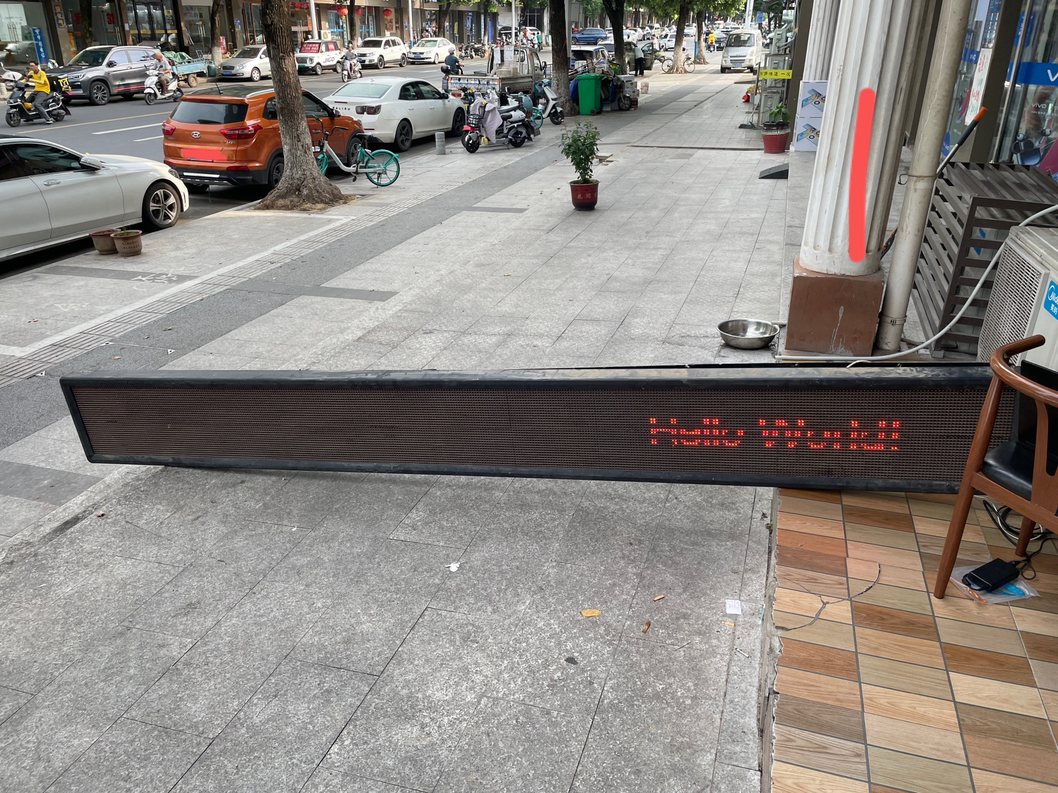
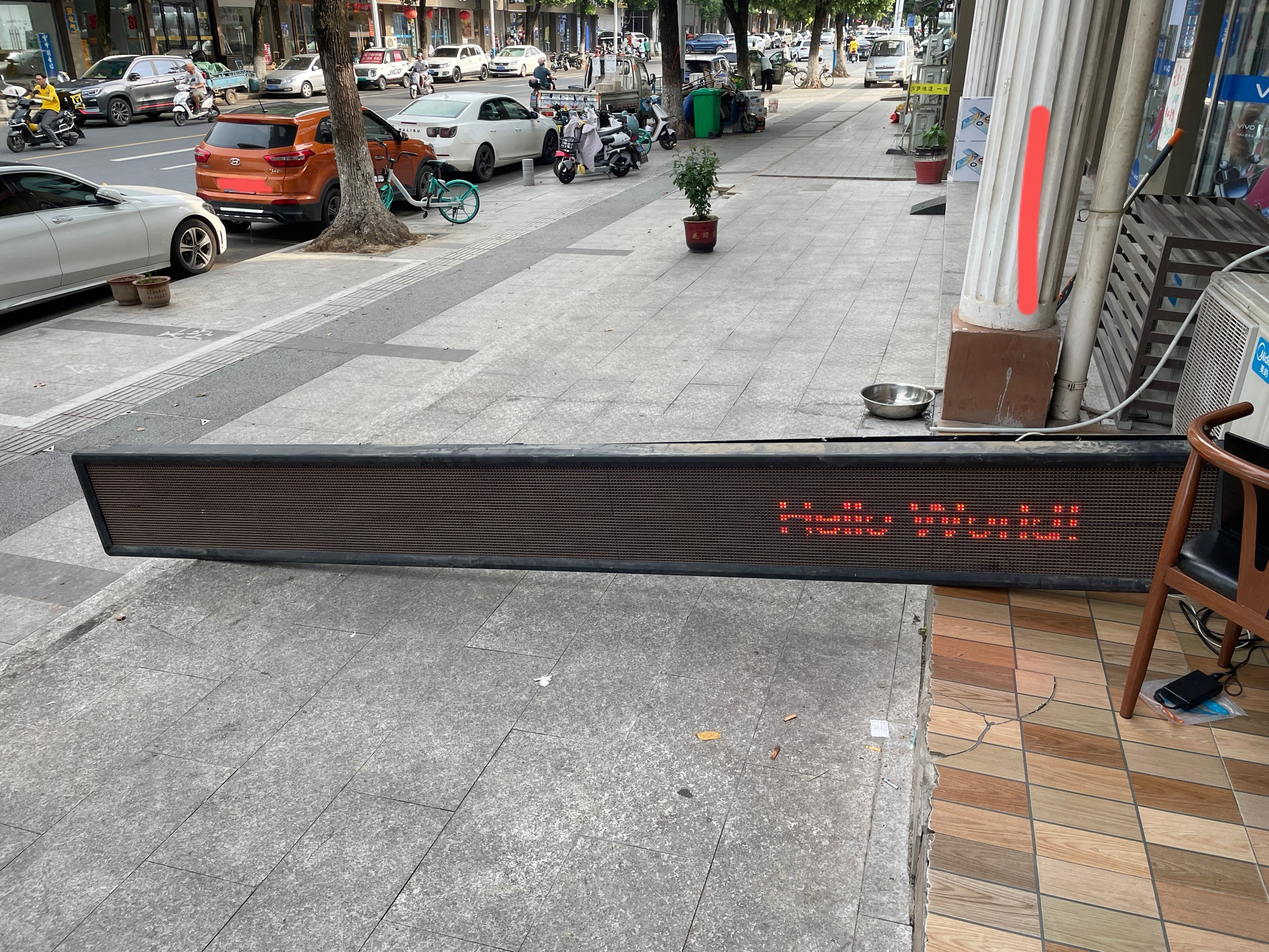
fix(sync): quote slug in front matter; recompress oversized image

diff --git a/src/content/posts/杂项/20230726-pei-wang-ba-de-led-guang-gao-ping/index.md b/src/content/posts/杂项/20230726-pei-wang-ba-de-led-guang-gao-ping/index.md
@@ -3,7 +3,7 @@ publish: true
 title: "配网吧的LED广告屏"
 date: 2023-07-26
 description: "20230726 配网吧的LED广告屏 网吧重新装修，老广告屏要刷新字幕，于是23号我去看了一下。 拆开泡沫后盖，发现控制卡的静电袋还没有去除 可能是为了防水防尘防短路。 经过一番折腾，我发现这个控制卡不能用串口连接。找到一个旧U盘，保存里"
-slug: 20230726-pei-wang-ba-de-led-guang-gao-ping
+slug: "20230726-pei-wang-ba-de-led-guang-gao-ping"
 tags:
   - "硬件"
   - "折腾"

diff --git a/src/content/posts/杂项/20260303/index.md b/src/content/posts/杂项/20260303/index.md
@@ -3,7 +3,7 @@ publish: true
 title: "踩坑：VS Code 远程开发搞定 Codex 插件网络代理"
 date: 2026-03-03
 description: "踩坑：VS Code 远程开发搞定 Codex 插件网络代理 日期 ：2026年3月3日 标签 ： VS Code Remote SSH Proxy Codex 今天花了不少时间折腾 VS Code 远程环境下的 Codex 插件（ ope"
-slug: 20260303
+slug: "20260303"
 tags:
   - "VS Code"
   - "Remote-SSH"
